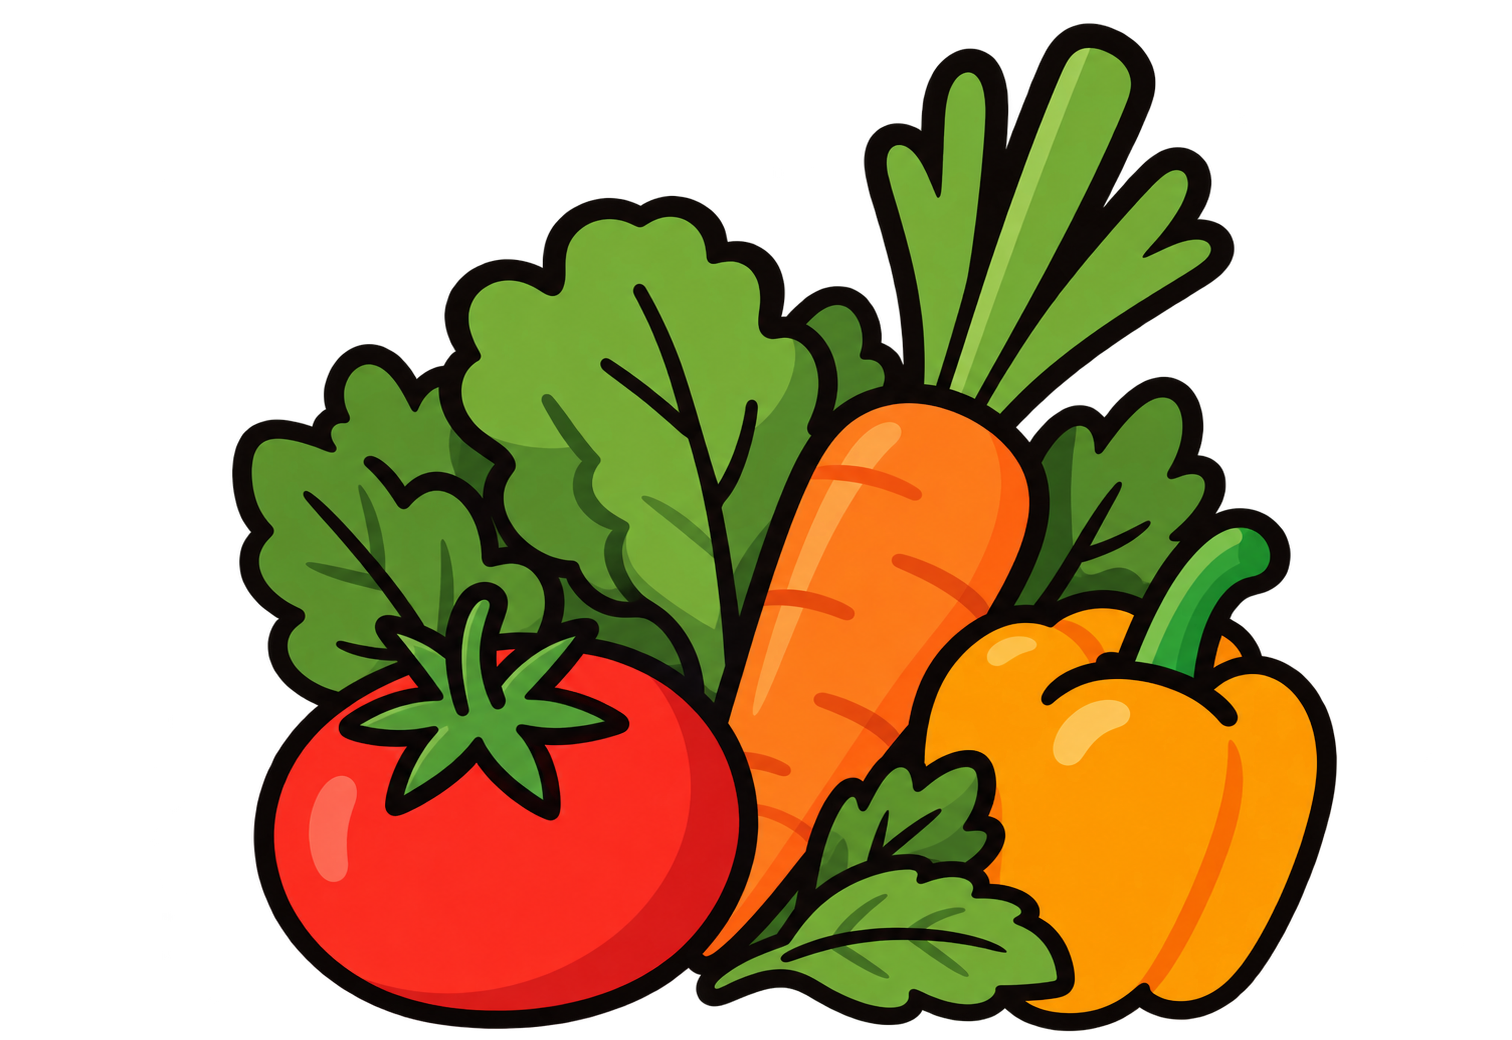
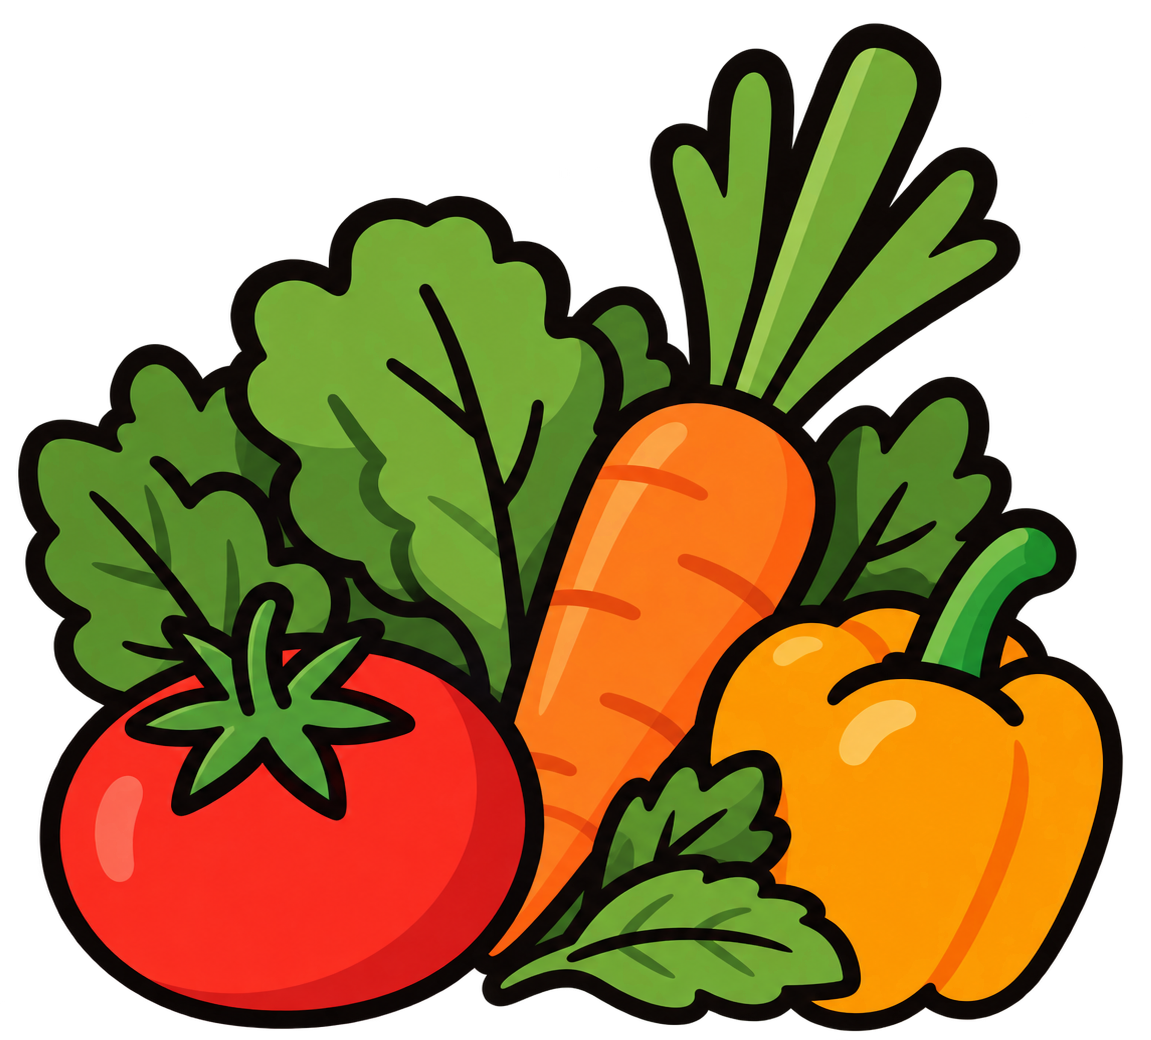
chore: add labels to navigation tiles

diff --git a/frontend/src/app/core/pages/home-page/home-page.component.scss b/frontend/src/app/core/pages/home-page/home-page.component.scss
@@ -24,19 +24,29 @@ main {
 
 .navigation {
   flex: 0 0 auto;
-  display: flex;
-  justify-content: flex-start;
+  display: grid;
+  grid-template-columns: repeat(2, minmax(0, 1fr));
   gap: 0.75rem;
 }
 
 .navigation-link {
-  max-width: 8rem;
-  border-radius: 15%;
+  min-width: 0;
+  border-radius: 1rem;
   background-color: tokens.$base-container-color;
   box-shadow: tokens.$container-box-shadow;
+  color: tokens.$high-emphasis-font-color;
+  text-decoration: none;
   position: relative;
-  padding: 2%;
+  padding: 0.75rem;
   display: flex;
+  flex-direction: column;
+  align-items: center;
+  gap: 0.75rem;
+
+  &:focus-visible {
+    outline: 2px solid currentColor;
+    outline-offset: 3px;
+  }
 
   &:focus,
   &:hover {
@@ -48,13 +58,18 @@ main {
 }
 
 .image {
-  width: auto;
-  max-width: 100%;
+  width: 100%;
+  aspect-ratio: 1;
   height: auto;
-  max-height: 100%;
   object-fit: contain;
   display: block;
   z-index: 1;
+}
+
+.navigation-label {
+  font-size: clamp(1rem, 5vw, 1.5rem);
+  font-weight: 500;
+  text-align: center;
 }
 
 .versions-wrapper {

diff --git a/frontend/src/app/core/pages/home-page/home-page.component.html b/frontend/src/app/core/pages/home-page/home-page.component.html
@@ -1,20 +1,20 @@
 <main>
   <nav class="navigation">
     <a
-      mat-flat-button
       routerLink="/recipes"
       ariaCurrentWhenActive="page"
       class="navigation-link"
     >
-      <img src="../../assets/recipes.png" alt="Rezepte" class="image" />
+      <img src="../../assets/recipes.png" alt="" class="image" />
+      <span class="navigation-label">Rezepte</span>
     </a>
     <a
-      mat-flat-button
       routerLink="/foodstuffs"
       ariaCurrentWhenActive="page"
       class="navigation-link"
     >
-      <img src="../../assets/foodstuffs.png" alt="Lebensmittel" class="image" />
+      <img src="../../assets/foodstuffs.png" alt="" class="image" />
+      <span class="navigation-label">Zutaten</span>
     </a>
   </nav>
   <div class="versions-wrapper">
